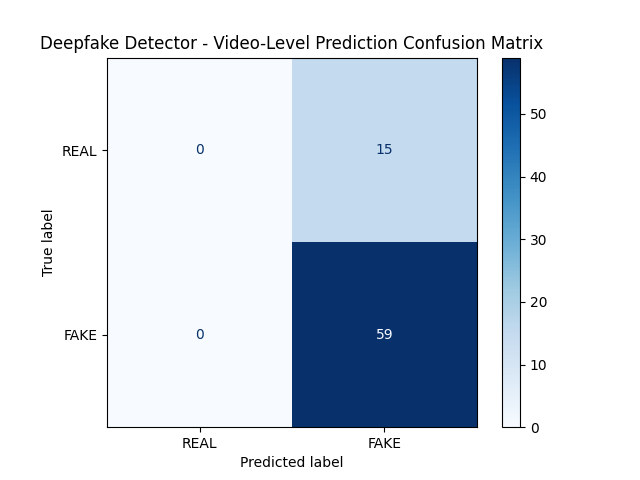
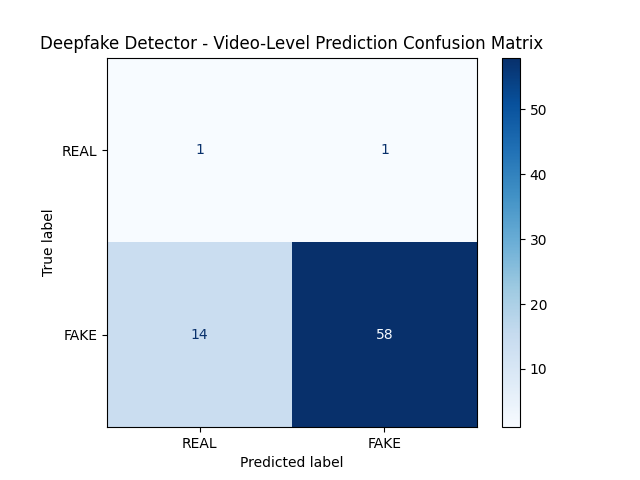
fixed pred mistake

diff --git a/base_model.py b/base_model.py
@@ -145,9 +145,9 @@ video_true_value, video_predictions_binary, video_predictions_probs = get_video_
 
 # Evaluate
 metrics = evaluate_video_predictions(
-    y_true=video_predictions_binary,
+    y_true=video_true_value,
     y_pred_probs = video_predictions_probs,
-    y_pred_binary=video_true_value,
+    y_pred_binary=video_predictions_binary,
 
     class_names=["REAL", "FAKE"],
     model_name="Deepfake Detector"

diff --git a/base_model_SSIM_MASK.py b/base_model_SSIM_MASK.py
@@ -187,9 +187,9 @@ video_true_value, video_predictions_binary, video_predictions_probs = get_video_
 
 # Evaluate
 metrics = evaluate_video_predictions(
-    y_true=video_predictions_binary,
+    y_true=video_true_value,
     y_pred_probs = video_predictions_probs,
-    y_pred_binary=video_true_value,
+    y_pred_binary=video_predictions_binary,
 
     class_names=["REAL", "FAKE"],
     model_name="Deepfake Detector"

diff --git a/efficientNet.py b/efficientNet.py
@@ -138,9 +138,9 @@ video_true_value, video_predictions_binary, video_predictions_probs = get_video_
 
 # Evaluate
 metrics = evaluate_video_predictions(
-    y_true=video_predictions_binary,
+    y_true=video_true_value,
     y_pred_probs = video_predictions_probs,
-    y_pred_binary=video_true_value,
+    y_pred_binary=video_predictions_binary,
 
     class_names=["REAL", "FAKE"],
     model_name="Deepfake Detector"

diff --git a/efficientNet_SSIM_MASK.py b/efficientNet_SSIM_MASK.py
@@ -213,9 +213,9 @@ video_true_value, video_predictions_binary, video_predictions_probs = get_video_
 
 # Evaluate
 metrics = evaluate_video_predictions(
-    y_true=video_predictions_binary,
+    y_true=video_true_value,
     y_pred_probs = video_predictions_probs,
-    y_pred_binary=video_true_value,
+    y_pred_binary=video_predictions_binary,
 
     class_names=["REAL", "FAKE"],
     model_name="Deepfake Detector"

diff --git a/results.md b/results.md
@@ -1,9 +1,11 @@
 # Base Model
 Classification Metrics:
 Accuracy  : 0.7973
-Precision : 0.7973
-Recall    : 1.0000
-F1        : 0.8872
+Precision : 0.9831
+Recall    : 0.8056
+F1        : 0.8855
+Auc_roc   : 1.0000
+
 
 
 
